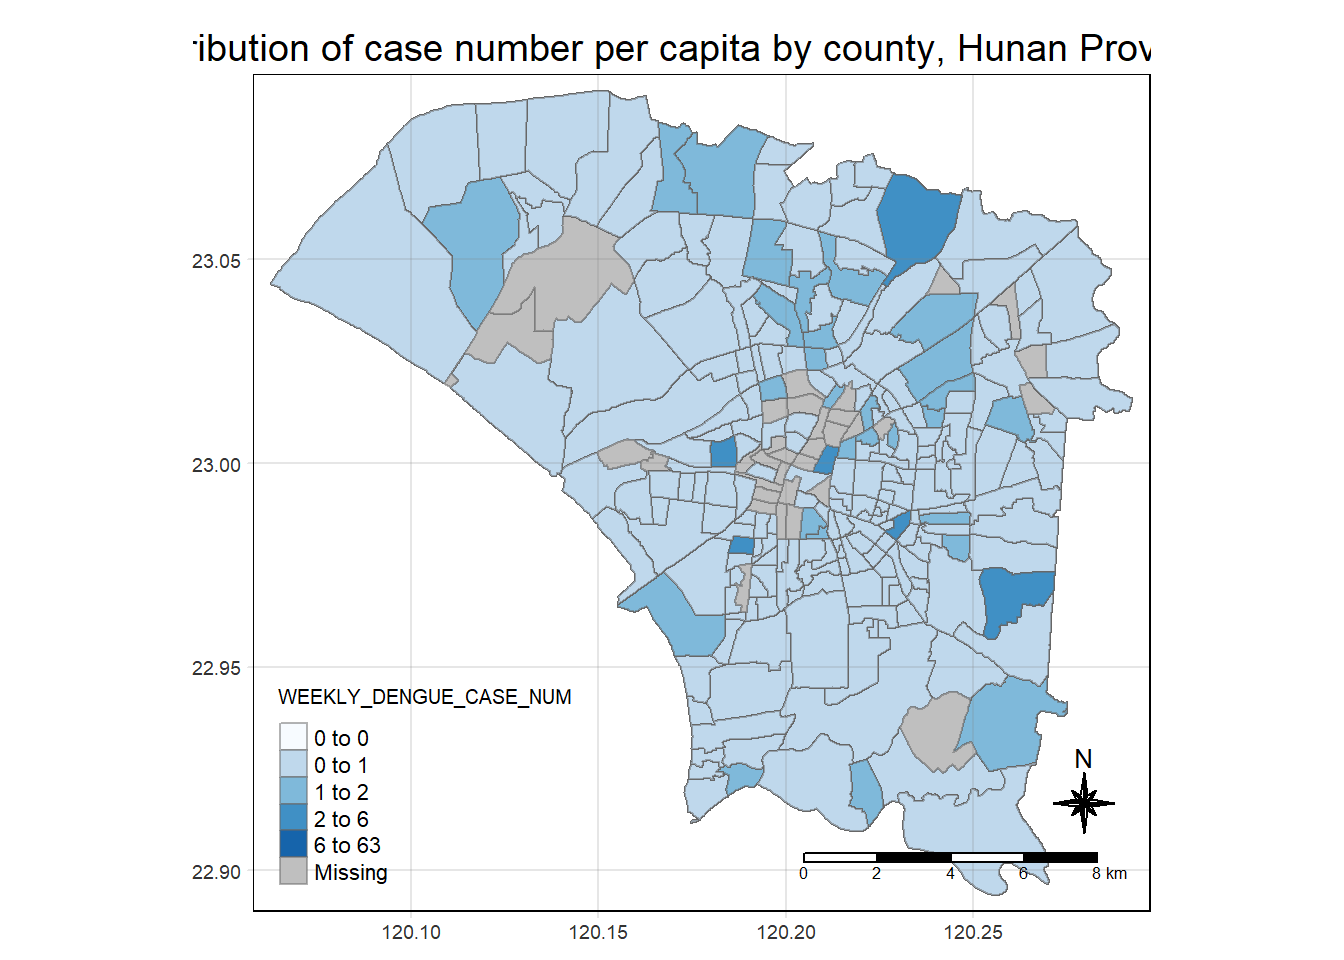
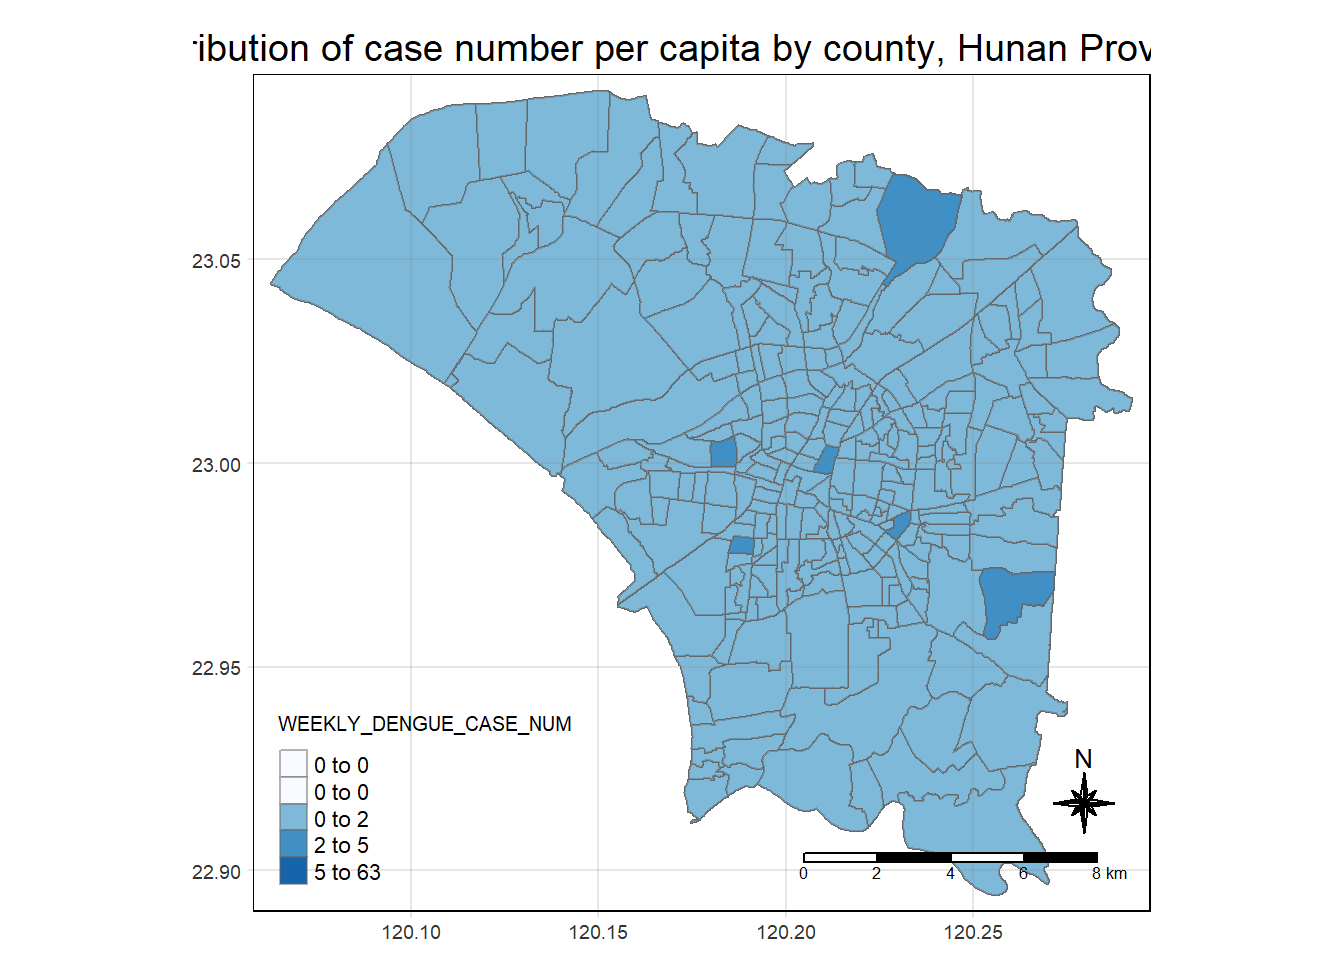
spacetime cube has been fixed

Changed region(s): [[0.1875, 0.0938, 0.8438, 0.9375], [0.1875, 0.7188, 0.4375, 0.9375]]

diff --git a/_site/Take_Home_Exercises/Take_Home_Exercise_2/Take_Home_Exercise_2.html b/_site/Take_Home_Exercises/Take_Home_Exercise_2/Take_Home_Exercise_2.html
@@ -448,11 +448,20 @@ Geodetic CRS:  TWD97</code></pre>
 <span id="cb8-8"><a href="#cb8-8" aria-hidden="true" tabindex="-1"></a>dengue <span class="ot">&lt;-</span> dengue[dengue<span class="sc">$</span>epiweek<span class="sc">&gt;=</span><span class="dv">31</span> <span class="sc">&amp;</span> dengue<span class="sc">$</span>epiweek<span class="sc">&lt;=</span><span class="dv">50</span>,]</span></code><button title="Copy to Clipboard" class="code-copy-button"><i class="bi"></i></button></pre></div>
 </details>
 </div>
+<p>I also wanted to let the VILLNAME in dengue follow the same format as the VILLNAME in <em>tainan</em>.</p>
+<div class="cell">
+<details>
+<summary>Show the code</summary>
+<div class="sourceCode cell-code" id="cb9"><pre class="sourceCode r code-with-copy"><code class="sourceCode r"><span id="cb9-1"><a href="#cb9-1" aria-hidden="true" tabindex="-1"></a>dengue<span class="sc">$</span>VILLNAME <span class="ot">&lt;-</span> <span class="fu">paste</span>(dengue<span class="sc">$</span>TOWNNAME, </span>
+<span id="cb9-2"><a href="#cb9-2" aria-hidden="true" tabindex="-1"></a>                         dengue<span class="sc">$</span>VILLNAME,</span>
+<span id="cb9-3"><a href="#cb9-3" aria-hidden="true" tabindex="-1"></a>                         <span class="at">sep =</span> <span class="st">"_"</span>)</span></code><button title="Copy to Clipboard" class="code-copy-button"><i class="bi"></i></button></pre></div>
+</details>
+</div>
 <p>We can use the <code>summary()</code> function to investigate the contents of <em>dengue</em></p>
 <div class="cell">
 <details>
 <summary>Show the code</summary>
-<div class="sourceCode cell-code" id="cb9"><pre class="sourceCode r code-with-copy"><code class="sourceCode r"><span id="cb9-1"><a href="#cb9-1" aria-hidden="true" tabindex="-1"></a><span class="fu">summary</span>(dengue)</span></code><button title="Copy to Clipboard" class="code-copy-button"><i class="bi"></i></button></pre></div>
+<div class="sourceCode cell-code" id="cb10"><pre class="sourceCode r code-with-copy"><code class="sourceCode r"><span id="cb10-1"><a href="#cb10-1" aria-hidden="true" tabindex="-1"></a><span class="fu">summary</span>(dengue)</span></code><button title="Copy to Clipboard" class="code-copy-button"><i class="bi"></i></button></pre></div>
 </details>
 <div class="cell-output cell-output-stdout">
 <pre><code>     發病日            個案研判日            通報日          
@@ -517,24 +526,15 @@ Geodetic CRS:  TWD97</code></pre>
 <div class="cell">
 <details>
 <summary>Show the code</summary>
-<div class="sourceCode cell-code" id="cb11"><pre class="sourceCode r code-with-copy"><code class="sourceCode r"><span id="cb11-1"><a href="#cb11-1" aria-hidden="true" tabindex="-1"></a>dengue <span class="ot">&lt;-</span> dengue <span class="sc">%&gt;%</span> </span>
-<span id="cb11-2"><a href="#cb11-2" aria-hidden="true" tabindex="-1"></a>  <span class="fu">filter</span>(<span class="st">`</span><span class="at">X-Coordinate</span><span class="st">`</span> <span class="sc">!=</span> <span class="st">"None"</span>,</span>
-<span id="cb11-3"><a href="#cb11-3" aria-hidden="true" tabindex="-1"></a>         <span class="st">`</span><span class="at">Y-Coordinate</span><span class="st">`</span> <span class="sc">!=</span> <span class="st">"None"</span>,</span>
-<span id="cb11-4"><a href="#cb11-4" aria-hidden="true" tabindex="-1"></a>         VILLNAME  <span class="sc">%in%</span> tainan<span class="sc">$</span>VILLNAME)</span>
-<span id="cb11-5"><a href="#cb11-5" aria-hidden="true" tabindex="-1"></a><span class="fu">sum</span>(dengue<span class="sc">$</span><span class="st">`</span><span class="at">X-Coordinate</span><span class="st">`</span> <span class="sc">==</span> <span class="st">"None"</span>)</span></code><button title="Copy to Clipboard" class="code-copy-button"><i class="bi"></i></button></pre></div>
+<div class="sourceCode cell-code" id="cb12"><pre class="sourceCode r code-with-copy"><code class="sourceCode r"><span id="cb12-1"><a href="#cb12-1" aria-hidden="true" tabindex="-1"></a>dengue <span class="ot">&lt;-</span> dengue <span class="sc">%&gt;%</span> </span>
+<span id="cb12-2"><a href="#cb12-2" aria-hidden="true" tabindex="-1"></a>  <span class="fu">filter</span>(<span class="st">`</span><span class="at">X-Coordinate</span><span class="st">`</span> <span class="sc">!=</span> <span class="st">"None"</span>,</span>
+<span id="cb12-3"><a href="#cb12-3" aria-hidden="true" tabindex="-1"></a>         <span class="st">`</span><span class="at">Y-Coordinate</span><span class="st">`</span> <span class="sc">!=</span> <span class="st">"None"</span>,</span>
+<span id="cb12-4"><a href="#cb12-4" aria-hidden="true" tabindex="-1"></a>         VILLNAME  <span class="sc">%in%</span> counties_sf<span class="sc">$</span>VILLNAME)</span>
+<span id="cb12-5"><a href="#cb12-5" aria-hidden="true" tabindex="-1"></a><span class="fu">sum</span>(dengue<span class="sc">$</span><span class="st">`</span><span class="at">X-Coordinate</span><span class="st">`</span> <span class="sc">==</span> <span class="st">"None"</span>)</span></code><button title="Copy to Clipboard" class="code-copy-button"><i class="bi"></i></button></pre></div>
 </details>
 <div class="cell-output cell-output-stdout">
 <pre><code>[1] 0</code></pre>
 </div>
-</div>
-<p>I also wanted to let the VILLNAME in dengue follow the same format as the VILLNAME in <em>tainan</em>.</p>
-<div class="cell">
-<details>
-<summary>Show the code</summary>
-<div class="sourceCode cell-code" id="cb13"><pre class="sourceCode r code-with-copy"><code class="sourceCode r"><span id="cb13-1"><a href="#cb13-1" aria-hidden="true" tabindex="-1"></a>dengue<span class="sc">$</span>VILLNAME <span class="ot">&lt;-</span> <span class="fu">paste</span>(dengue<span class="sc">$</span>TOWNNAME, </span>
-<span id="cb13-2"><a href="#cb13-2" aria-hidden="true" tabindex="-1"></a>                         dengue<span class="sc">$</span>VILLNAME,</span>
-<span id="cb13-3"><a href="#cb13-3" aria-hidden="true" tabindex="-1"></a>                         <span class="at">sep =</span> <span class="st">"_"</span>)</span></code><button title="Copy to Clipboard" class="code-copy-button"><i class="bi"></i></button></pre></div>
-</details>
 </div>
 <p>Finally, I will be converting dengue into an <strong>sf</strong> object.</p>
 <div class="cell">
@@ -564,11 +564,11 @@ Geodetic CRS:  TWD97</code></pre>
 <div class="cell">
 <details>
 <summary>Show the code</summary>
-<div class="sourceCode cell-code" id="cb16"><pre class="sourceCode r code-with-copy"><code class="sourceCode r"><span id="cb16-1"><a href="#cb16-1" aria-hidden="true" tabindex="-1"></a><span class="co"># Generate all combinations of VILLNAME and week from 31 to 50</span></span>
-<span id="cb16-2"><a href="#cb16-2" aria-hidden="true" tabindex="-1"></a>all_combinations <span class="ot">&lt;-</span> <span class="fu">expand_grid</span>(<span class="at">VILLNAME =</span> <span class="fu">unique</span>(dengueCounty<span class="sc">$</span>VILLNAME),</span>
+<div class="sourceCode cell-code" id="cb16"><pre class="sourceCode r code-with-copy"><code class="sourceCode r"><span id="cb16-1"><a href="#cb16-1" aria-hidden="true" tabindex="-1"></a><span class="co"># Generate all combinations of VILLNAME from counties_sf and weeks from 31 to 50</span></span>
+<span id="cb16-2"><a href="#cb16-2" aria-hidden="true" tabindex="-1"></a>all_combinations <span class="ot">&lt;-</span> <span class="fu">expand_grid</span>(<span class="at">VILLNAME =</span> <span class="fu">unique</span>(counties_sf<span class="sc">$</span>VILLNAME),</span>
 <span id="cb16-3"><a href="#cb16-3" aria-hidden="true" tabindex="-1"></a>                                <span class="at">epiweek =</span> <span class="dv">31</span><span class="sc">:</span><span class="dv">50</span>)</span>
 <span id="cb16-4"><a href="#cb16-4" aria-hidden="true" tabindex="-1"></a></span>
-<span id="cb16-5"><a href="#cb16-5" aria-hidden="true" tabindex="-1"></a><span class="co"># Left join with dengue_grp to retain existing records</span></span>
+<span id="cb16-5"><a href="#cb16-5" aria-hidden="true" tabindex="-1"></a><span class="co"># Left join with dengueCounty to retain existing records</span></span>
 <span id="cb16-6"><a href="#cb16-6" aria-hidden="true" tabindex="-1"></a>dengueCountyComplete <span class="ot">&lt;-</span> <span class="fu">left_join</span>(all_combinations, dengueCounty, <span class="at">by =</span> <span class="fu">c</span>(<span class="st">"VILLNAME"</span>, <span class="st">"epiweek"</span>))</span>
 <span id="cb16-7"><a href="#cb16-7" aria-hidden="true" tabindex="-1"></a></span>
 <span id="cb16-8"><a href="#cb16-8" aria-hidden="true" tabindex="-1"></a><span class="co"># Replace missing sums with 0</span></span>
@@ -610,53 +610,24 @@ Geodetic CRS:  TWD97</code></pre>
 <p><img src="Take_Home_Exercise_2_files/figure-html/unnamed-chunk-15-1.png" class="img-fluid" width="672"></p>
 </div>
 </div>
-<div class="cell">
-<details>
-<summary>Show the code</summary>
-<div class="sourceCode cell-code" id="cb19"><pre class="sourceCode r code-with-copy"><code class="sourceCode r"><span id="cb19-1"><a href="#cb19-1" aria-hidden="true" tabindex="-1"></a>counties_sf <span class="ot">&lt;-</span> counties_sf <span class="sc">%&gt;%</span></span>
-<span id="cb19-2"><a href="#cb19-2" aria-hidden="true" tabindex="-1"></a>    <span class="fu">filter</span>(VILLNAME <span class="sc">%in%</span> <span class="fu">unique</span>(dengueCountyComplete<span class="sc">$</span>VILLNAME))</span></code><button title="Copy to Clipboard" class="code-copy-button"><i class="bi"></i></button></pre></div>
-</details>
-</div>
 <p>I will now try and create the time series cube from <em>dengue_county</em></p>
 <div class="cell">
 <details>
 <summary>Show the code</summary>
-<div class="sourceCode cell-code" id="cb20"><pre class="sourceCode r code-with-copy"><code class="sourceCode r"><span id="cb20-1"><a href="#cb20-1" aria-hidden="true" tabindex="-1"></a>dengue_county_st <span class="ot">&lt;-</span> <span class="fu">spacetime</span>(dengueCountyComplete, counties_sf,</span>
-<span id="cb20-2"><a href="#cb20-2" aria-hidden="true" tabindex="-1"></a>                              <span class="at">.loc_col=</span><span class="st">"VILLNAME"</span>,</span>
-<span id="cb20-3"><a href="#cb20-3" aria-hidden="true" tabindex="-1"></a>                              <span class="at">.time_col =</span><span class="st">"epiweek"</span> )</span></code><button title="Copy to Clipboard" class="code-copy-button"><i class="bi"></i></button></pre></div>
+<div class="sourceCode cell-code" id="cb19"><pre class="sourceCode r code-with-copy"><code class="sourceCode r"><span id="cb19-1"><a href="#cb19-1" aria-hidden="true" tabindex="-1"></a>dengue_county_st <span class="ot">&lt;-</span> <span class="fu">spacetime</span>(dengueCountyComplete, counties_sf,</span>
+<span id="cb19-2"><a href="#cb19-2" aria-hidden="true" tabindex="-1"></a>                              <span class="at">.loc_col=</span><span class="st">"VILLNAME"</span>,</span>
+<span id="cb19-3"><a href="#cb19-3" aria-hidden="true" tabindex="-1"></a>                              <span class="at">.time_col =</span><span class="st">"epiweek"</span> )</span></code><button title="Copy to Clipboard" class="code-copy-button"><i class="bi"></i></button></pre></div>
 </details>
 </div>
 <p>Next, <code>is_spacetime_cube()</code> will be used to verify if <em>dengue_county_st</em> is indeed a time series cube.</p>
 <div class="cell">
 <details>
 <summary>Show the code</summary>
-<div class="sourceCode cell-code" id="cb21"><pre class="sourceCode r code-with-copy"><code class="sourceCode r"><span id="cb21-1"><a href="#cb21-1" aria-hidden="true" tabindex="-1"></a><span class="fu">is_spacetime_cube</span>(dengue_county_st)</span></code><button title="Copy to Clipboard" class="code-copy-button"><i class="bi"></i></button></pre></div>
+<div class="sourceCode cell-code" id="cb20"><pre class="sourceCode r code-with-copy"><code class="sourceCode r"><span id="cb20-1"><a href="#cb20-1" aria-hidden="true" tabindex="-1"></a><span class="fu">is_spacetime_cube</span>(dengue_county_st)</span></code><button title="Copy to Clipboard" class="code-copy-button"><i class="bi"></i></button></pre></div>
 </details>
 <div class="cell-output cell-output-stdout">
-<pre><code>[1] FALSE</code></pre>
+<pre><code>[1] TRUE</code></pre>
 </div>
-</div>
-<div class="cell">
-<details>
-<summary>Show the code</summary>
-<div class="sourceCode cell-code" id="cb23"><pre class="sourceCode r code-with-copy"><code class="sourceCode r"><span id="cb23-1"><a href="#cb23-1" aria-hidden="true" tabindex="-1"></a><span class="co"># Create a dataframe with all combinations of village and week</span></span>
-<span id="cb23-2"><a href="#cb23-2" aria-hidden="true" tabindex="-1"></a>all_combinations <span class="ot">&lt;-</span> <span class="fu">expand_grid</span>(<span class="at">VILLNAME =</span> <span class="fu">unique</span>(dengue_per_county<span class="sc">$</span>VILLNAME),</span>
-<span id="cb23-3"><a href="#cb23-3" aria-hidden="true" tabindex="-1"></a>                                <span class="at">epiweek =</span> <span class="fu">unique</span>(dengue_per_county<span class="sc">$</span>epiweek))</span>
-<span id="cb23-4"><a href="#cb23-4" aria-hidden="true" tabindex="-1"></a></span>
-<span id="cb23-5"><a href="#cb23-5" aria-hidden="true" tabindex="-1"></a><span class="co"># Left join with the dengue_per_county_complete dataframe</span></span>
-<span id="cb23-6"><a href="#cb23-6" aria-hidden="true" tabindex="-1"></a>dengue_per_county_complete <span class="ot">&lt;-</span> all_combinations <span class="sc">%&gt;%</span></span>
-<span id="cb23-7"><a href="#cb23-7" aria-hidden="true" tabindex="-1"></a>  <span class="fu">left_join</span>(dengue_per_county, <span class="at">by =</span> <span class="fu">c</span>(<span class="st">"VILLNAME"</span>, <span class="st">"epiweek"</span>)) <span class="sc">%&gt;%</span></span>
-<span id="cb23-8"><a href="#cb23-8" aria-hidden="true" tabindex="-1"></a>  <span class="fu">mutate</span>(<span class="at">WEEKLY_DENGUE_CASE_NUM =</span> <span class="fu">if_else</span>(<span class="fu">is.na</span>(WEEKLY_DENGUE_CASE_NUM), <span class="dv">0</span>, WEEKLY_DENGUE_CASE_NUM))  <span class="co"># Replace missing sums with 0</span></span>
-<span id="cb23-9"><a href="#cb23-9" aria-hidden="true" tabindex="-1"></a></span>
-<span id="cb23-10"><a href="#cb23-10" aria-hidden="true" tabindex="-1"></a><span class="co"># Now, you should have a complete dataframe with all combinations of village and week</span></span></code><button title="Copy to Clipboard" class="code-copy-button"><i class="bi"></i></button></pre></div>
-</details>
-</div>
-<div class="cell">
-<details>
-<summary>Show the code</summary>
-<div class="sourceCode cell-code" id="cb24"><pre class="sourceCode r code-with-copy"><code class="sourceCode r"><span id="cb24-1"><a href="#cb24-1" aria-hidden="true" tabindex="-1"></a><span class="co"># Assuming df is your dataframe and col_name is the name of the column</span></span>
-<span id="cb24-2"><a href="#cb24-2" aria-hidden="true" tabindex="-1"></a>num_unique <span class="ot">&lt;-</span> <span class="fu">length</span>(<span class="fu">unique</span>(dengueCountyComplete<span class="sc">$</span>VILLNAME))</span></code><button title="Copy to Clipboard" class="code-copy-button"><i class="bi"></i></button></pre></div>
-</details>
 </div>
 
 
